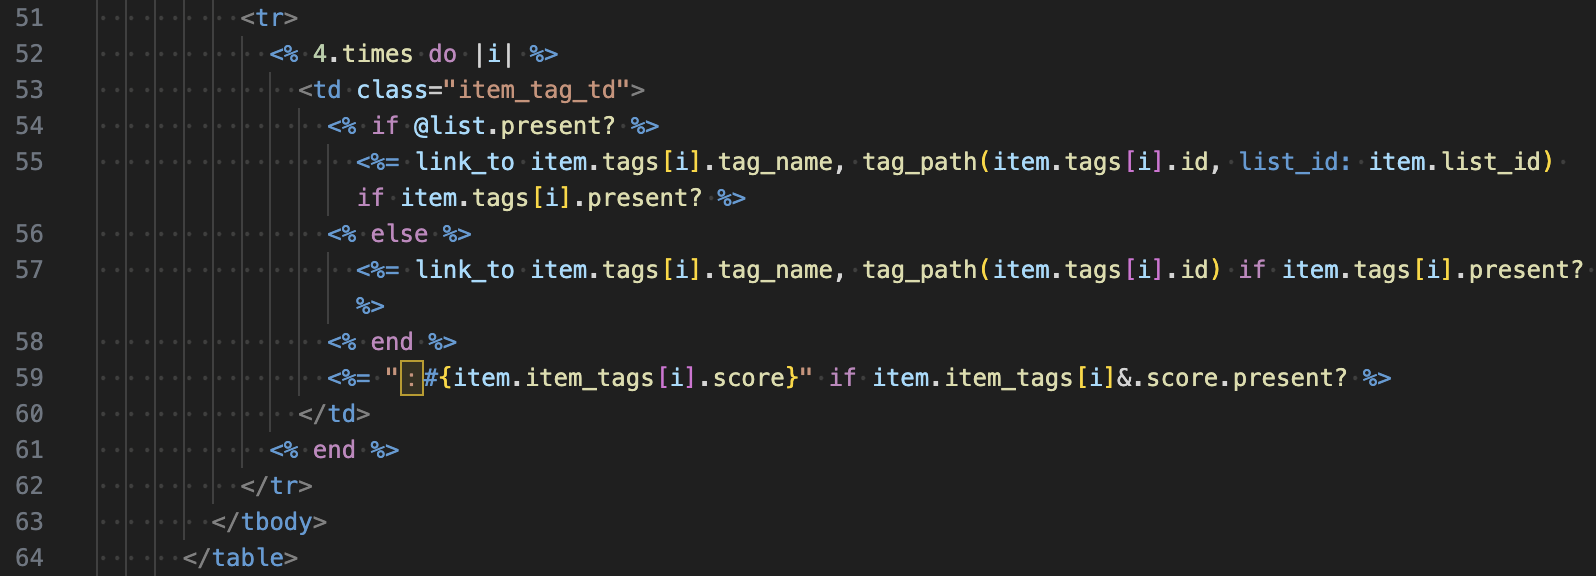
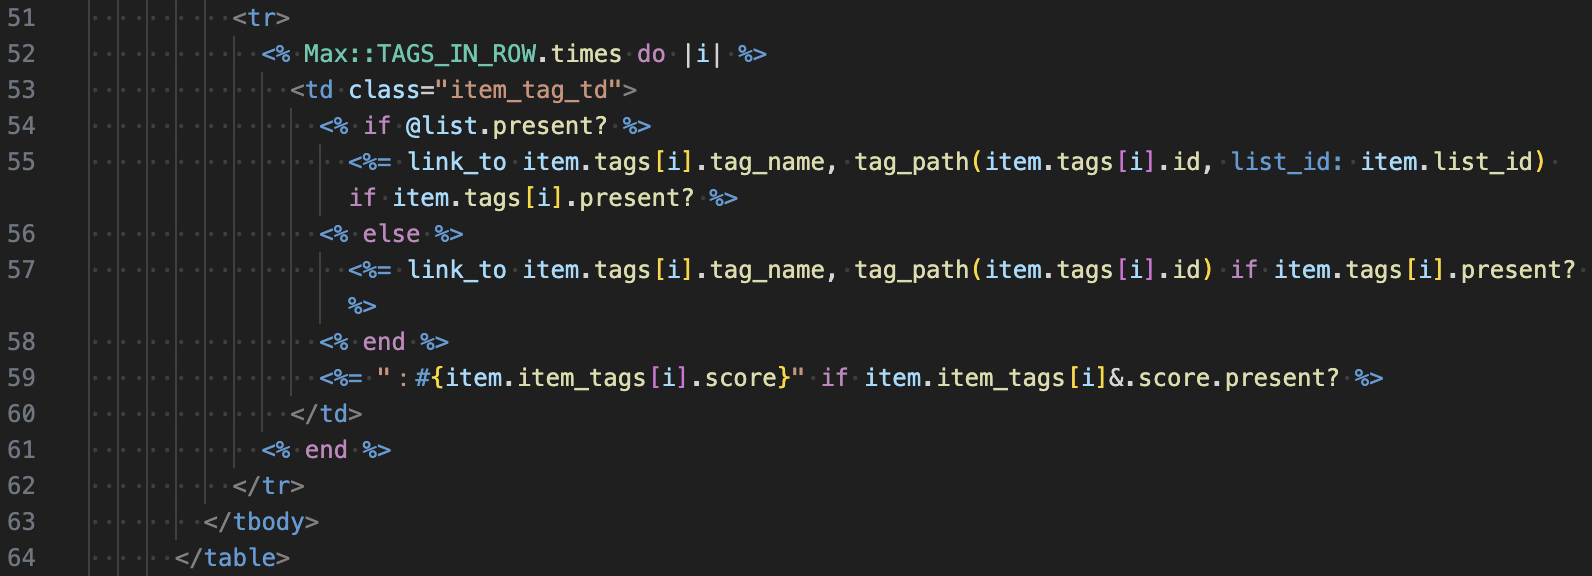
#16-19(修正) README

diff --git a/README.md b/README.md
@@ -401,8 +401,13 @@ db/seeds/csv/item_tags.numbers
 　22・26: labelのfor属性とtext_fieldのid属性を紐づける際、ブロック変数iを使う(item_form_tag_name#{i+1})。  
 　変数を使わないと、全てのラベルが1つ目の入力欄に紐づいてしまう。31・35のlabelとnumber_fieldも同様。  
 <br>
-app/views/items/_form.html.erb  
-<img width="720" alt="画像：4-1-2(B)idea" src="app/assets/images/readme/4-1-2(B)idea.png">
+config/initializers/constants.rb  
+<img width="600" alt="画像：4-1-2(B)idea" src="app/assets/images/readme/4-1-2(B)idea.png">
+<br>
+<br>
+<br>
+app/views/items/_form.html.erb　※ TAGS_PER_ITEM = 4  
+<img width="720" alt="画像：4-1-2(C)idea" src="app/assets/images/readme/4-1-2(C)idea.png">
 <br>
 <br>
 <br>
@@ -413,7 +418,7 @@ app/views/items/_form.html.erb
 　26: text_fieldのname属性：item_form[tag_names][]に設定。4つのタグ入力欄のname属性を統一。  
 　35: number_fieldのname属性：item_form[scores][]に設定。4つのスコア入力欄のname属性を統一。  
 <br>
-app/views/items/_form.html.erb  
+app/views/items/_form.html.erb　※ TAGS_PER_ITEM = 4  
 <img width="500" alt="画像：4-1-3(A)idea" src="app/assets/images/readme/4-1-3(A)idea.png">
 <br>
 <br>
@@ -443,9 +448,9 @@ app/controllers/items_controller.rb
 　8-9: attr_accessorメソッド：配列tag_namesとscoresを指定し、ItemFormクラスでの取得と変更を許可。  
 　配列から取り出した値の保存先カラム名tag_nameとscoreも、配列と分けて指定。  
 <br>
-　13-15: validatesメソッド：配列(tag_names, scores)とカラム名(tag_name, score)両方の値を、保存時に検証。  
+　14-16: validatesメソッド：配列(tag_names, scores)とカラム名(tag_name, score)両方の値を、保存時に検証。  
 <br>
-app/models/item_form.rb  
+app/models/item_form.rb　※ IMAGES_PER_ITEM = 4, TAGS_PER_ITEM = 4  
 <img width="640" alt="画像：4-1-4(B)idea" src="app/assets/images/readme/4-1-4(B)idea.png">
 <br>
 <br>
@@ -456,23 +461,23 @@ app/models/item_form.rb
 　アイテム→タグ→中間テーブル(スコアも含む)の順にレコードを保存する。  
 　アイテムはフォーム入力が必須(必ず保存)、タグとスコアはフォーム入力が任意(保存しない場合もある)。  
 <br>
-　20: 配列tag_namesの0〜3番目に値が入っている場合(タグをフォームに入力した場合)、タグの保存処理を実行。  
+　21: 配列tag_namesの0〜3番目に値が入っている場合(タグをフォームに入力した場合)、タグの保存処理を実行。  
 <br>
-　21: first_or_createメソッド：フォームに入力したタグと同名のタグが、tagsテーブルに既に存在する場合、既存タグのレコードを取得する。存在しない場合、新規タグを保存する。  
+　22: first_or_createメソッド：フォームに入力したタグと同名のタグが、tagsテーブルに既に存在する場合、既存タグのレコードを取得する。存在しない場合、新規タグを保存する。  
 <br>
 <br>
 　(2)アイテムとタグをフォームに入力した場合、中間テーブルにもレコードを保存する。  
 　かつ、タグに紐づくスコアは入力していない場合、アイテムとタグの紐づけのみを保存(item_id, tag_id)。  
 　逆に、スコアも入力した場合、アイテム・タグの紐づけと共にスコアも保存(item_id, tag_id, score)。  
 <br>
-　23: timesメソッドのループ処理内で、同じ添字を使い、tag_names[0]〜[3]に紐づくscores[0]〜[3]を取得する。  
+　24: timesメソッドのループ処理内で、同じ添字を使い、tag_names[0]〜[3]に紐づくscores[0]〜[3]を取得する。  
 　tag_names[i]に紐づくスコアを入力していない場合、scores[i]の値は空となり、中間テーブルに保存されない。  
 <br>
 　なお、タグに紐づかないスコアだけを保存するケースは、仕様上存在しない(フォーム上でタグ欄が空欄のまま、紐づくスコア欄にだけ入力したとしても、スコアを保存しない)。  
 <br>
-　※22: no_touchingメソッド：開発の工夫4-5にて後述。  
+　※23: no_touchingメソッド：開発の工夫4-5にて後述。  
 <br>
-app/models/item_form.rb  
+app/models/item_form.rb　※ TAGS_PER_ITEM = 4  
 <img width="720" alt="画像：4-1-5(A)idea" src="app/assets/images/readme/4-1-5(A)idea.png">
 <br>
 <br>
@@ -500,8 +505,8 @@ app/controllers/items_controller.rb
 　24: text_fieldのvalue属性：配列@item_form.tag_namesのi番目の値を、入力欄(id: i+1番)の初期値に設定。  
 　33: number_fieldのvalue属性：配列@item_form.scoresのi番目の値を、入力欄(id: i+1番)の初期値に設定。  
 <br>
-app/views/items/_form.html.erb  
-<img width="720" alt="画像：4-1-2(B)idea" src="app/assets/images/readme/4-1-2(B)idea.png">
+app/views/items/_form.html.erb　※ TAGS_PER_ITEM = 4  
+<img width="720" alt="画像：4-1-2(C)idea" src="app/assets/images/readme/4-1-2(C)idea.png">
 <br>
 <br>
 <br>
@@ -513,28 +518,28 @@ app/views/items/_form.html.erb
 
 ### 4-1-8. フォームオブジェクト：アイテム1つに紐づくタグ4つ・スコア4つを更新または削除
 　(1)ItemFormクラス内で、update_item_formメソッドを新たに定義する。updateアクション内で実行する。  
-　29: 引数：編集フォームから送信されたitem_form_params(編集後のデータ)と、@item(編集前のレコード)。  
+　30: 引数：編集フォームから送信されたitem_form_params(編集後のデータ)と、@item(編集前のレコード)。  
 　params：アイテム(item_name, description, list_id, images)、タグ配列(tag_names)、スコア配列(scores)。  
 <br>
 　(2)paramsをアイテム／タグ配列／スコア配列に分解し、それぞれの値をレコードの更新処理に使う。  
-　31-32: deleteメソッド：paramsから削除したタグ・スコアが、削除処理の返り値となる。変数化して使い回す。  
-　33: updateメソッド：アイテムに関するデータだけが残ったparamsを使い、アイテムのレコードを更新。  
+　32-33: deleteメソッド：paramsから削除したタグ・スコアが、削除処理の返り値となる。変数化して使い回す。  
+　34: updateメソッド：アイテムに関するデータだけが残ったparamsを使い、アイテムのレコードを更新。  
 <br>
 　(3)タグをフォームに入力した場合、中間テーブルのレコード(スコアも含む)も更新、または新規保存する。  
-　36-37: first_or_createメソッド：既存タグのレコードを取得、または新規タグを保存。  
-　30: 編集前のitemに紐づく、編集前のitem_tagレコードを0〜4つ取得して配列化。  
-　38-39: updateメソッド：編集前のi番目(0〜3番目)のitem_tagに、i番目の欄に入力したtag_idとscoreを上書き。  
-　40-41: createメソッド：編集前のitem_tagがi番目に存在しない場合、i番目に入力したtag_idとscoreを保存。  
+　37-38: first_or_createメソッド：既存タグのレコードを取得、または新規タグを保存。  
+　31: 編集前のitemに紐づく、編集前のitem_tagレコードを0〜4つ取得して配列化。  
+　39-40: updateメソッド：編集前のi番目(0〜3番目)のitem_tagに、i番目の欄に入力したtag_idとscoreを上書き。  
+　41-42: createメソッド：編集前のitem_tagがi番目に存在しない場合、i番目に入力したtag_idとscoreを保存。  
 <br>
 　(4)編集画面遷移時に自動入力されたタグを削除し、空欄で送信した場合、中間テーブルのレコードも削除する。  
 　アイテムとタグの紐づけは削除するが、タグ自体はテーブルに残す(複数のユーザー・リストで使い回すため)。  
-　43-44: destroyメソッド：i番目のタグ欄が空欄の場合、編集前のitem_tagがi番目に存在するなら削除。  
+　44-45: destroyメソッド：i番目のタグ欄が空欄の場合、編集前のitem_tagがi番目に存在するなら削除。  
 <br>
-　※30行目をitem.item_tags.destroy_allとし、38-44行目をItemTag.createに一本化する方法もある。  
+　※31行目をitem.item_tags.destroy_allとし、39-45行目をItemTag.createに一本化する方法もある。  
 　その場合、updateアクションを実行するたびに、(タグやスコアを変更・削除しなくても)既存のitem_tagを全て削除するがゆえにレコードIDが欠番となり、item_tagを保存し直すがゆえにレコードIDと自動採番値が毎回増える。  
 　従って今回は、item_tagレコードを削除・再度保存する回数を減らすために、条件分岐を実装した。  
 <br>
-app/models/item_form.rb  
+app/models/item_form.rb　※ TAGS_PER_ITEM = 4  
 <img width="640" alt="画像：4-1-8(A)idea" src="app/assets/images/readme/4-1-8(A)idea.png">
 <br>
 <br>
@@ -568,7 +573,7 @@ app/controllers/lists_controller.rb
 　59: &.(セーフナビゲーション)：1つのアイテムに紐づくi番目(0〜3番目)のタグが存在し(つまりi番目のitem_tagsレコードも存在し)、かつ、item_tagsレコード内のスコアも存在する場合、タグ名の隣に「：」とスコアを表示。  
 　逆に、タグが存在しない場合、または、タグは存在するがスコアは存在しない場合、「：」もスコアも非表示。  
 <br>
-app/views/shared/_item_table.html.erb  
+app/views/shared/_item_table.html.erb　※ TAGS_IN_ROW = 4  
 <img width="720" alt="画像：4-1-9(B)idea" src="app/assets/images/readme/4-1-9(B)idea.png">
 <br>
 <br>
@@ -594,7 +599,7 @@ app/views/shared/_item_table.html.erb
 　28: 空のdiv要素：入力欄ごとに、タグ検索結果の表示領域を併設しておく。変数iで区別。  
 　inputイベントの内容に応じ、タグ名ボタンを生成。検索前の状態、または検索結果0件の時は、何も表示しない。  
 <br>
-app/views/items/_form.html.erb  
+app/views/items/_form.html.erb　※ TAGS_PER_ITEM = 4  
 <img width="720" alt="画像：4-2-1(A)idea" src="app/assets/images/readme/4-2-1(A)idea.png">
 <br>
 <br>
@@ -981,7 +986,7 @@ app/models/item_tag.rb
 ### 4-5-3. 同期の例外：複数レコード同時更新時のクエリ抑制。アイテム一覧の更新時差を維持
 　22: no_touchingメソッド：アイテム新規保存時は、最大4つの中間テーブルも併せて保存している。その際は、中間テーブル新規保存のたびにアイテム更新日時を同期させないことで、クエリ発行回数を抑える。  
 <br>
-app/models/item_form.rb  
+app/models/item_form.rb　※ TAGS_PER_ITEM = 4  
 <img width="720" alt="画像：4-1-5(A)idea" src="app/assets/images/readme/4-1-5(A)idea.png">
 <br>
 <br>
@@ -1283,7 +1288,7 @@ app/models/tag.rb
 <br>
 　14-15: each_sliceメソッド：タグレコード群を1組4つずつの配列に分割し、配列内配列を生成。ビュー側で、タグ一覧表の1行につき4列ずつのタグを表示。  
 <br>
-app/controllers/tags_controller.rb  
+app/controllers/tags_controller.rb　※ TAGS_IN_ROW = 4  
 <img width="720" alt="画像：4-9-2(A)idea" src="app/assets/images/readme/4-9-2(A)idea.png">
 <br>
 <br>
@@ -1333,7 +1338,7 @@ app/views/tags/index.html.erb
 　56-57: link_toメソッド(タグ名リンク)：アイテム検索画面、またはタグ詳細画面→タグ詳細画面。  
 　54-55: link_toメソッド(タグ名リンク)：リスト詳細画面→タグ詳細画面(遷移時、paramsにリストIDも含める)。  
 <br>
-app/views/shared/_item_table.html.erb  
+app/views/shared/_item_table.html.erb　※ TAGS_IN_ROW = 4  
 <img width="720" alt="画像：4-1-9(B)idea" src="app/assets/images/readme/4-1-9(B)idea.png">
 <br>
 <br>
